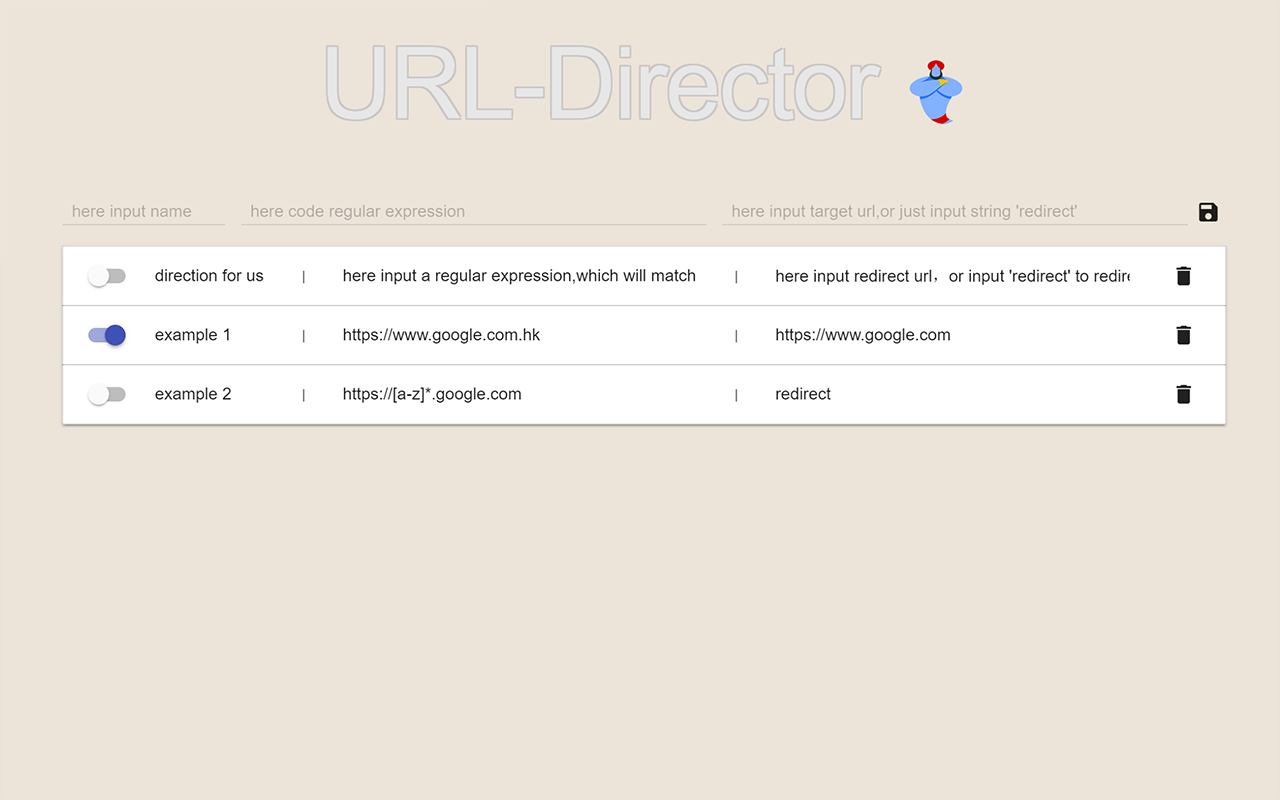
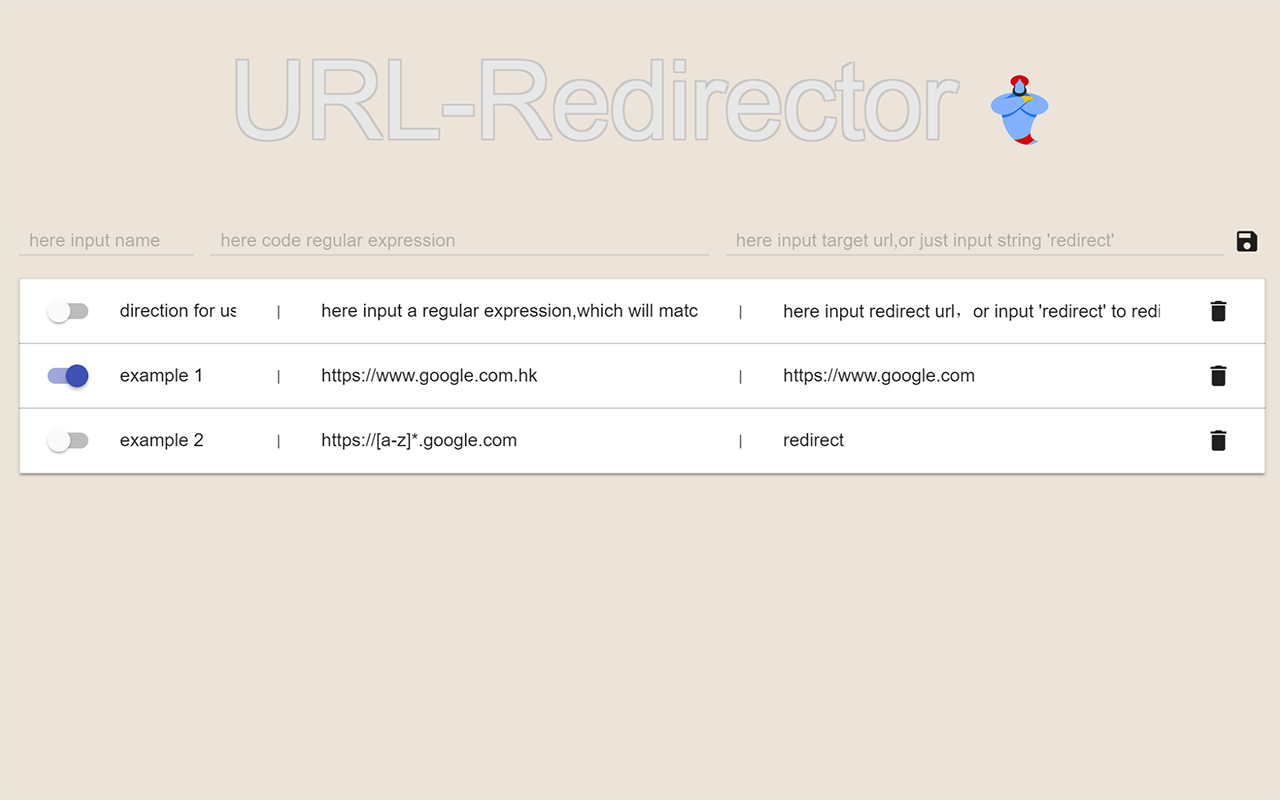
rename url_director to url_redirector

Changed region(s): [[0.0, 0.25, 1.0, 0.5938], [0.2188, 0.0625, 0.8125, 0.1875], [0.1875, 0.1562, 0.2188, 0.1875]]

diff --git a/option.html b/option.html
@@ -13,8 +13,8 @@
 <!--title-->
 <div class="container" style="width: 100%;text-align: center">
 
-    <h1 class="header header--raiseUp header--shadow">URL-Director
-        <a href="https://github.com/hellopenggao/url_director">
+    <h1 class="header header--raiseUp header--shadow">URL-Redirector
+        <a href="https://github.com/hellopenggao/url_redirector">
             <img src="icon.png" style="width: 64px;height: 64px" class="mdl-button mdl-js-button mdl-button--icon">
         </a>
     </h1>

diff --git a/README.md b/README.md
@@ -1,13 +1,13 @@
-![image](https://github.com/hellopenggao/url_shazam/blob/master/example_icon.PNG)url_shazam<br/>
-=====
+![image](./example_icon.PNG)url_redirector<br/>
+===============================================
 ###this chrome extension help you redirect url through regular expression.<br/>
 you can input a regular expression,which will match omnibox and any request in the page.<br/>
-or input 'shazam' to redirect to the url that back from regular expression.<br/>
+or input 'redirect' to redirect to the url that back from regular expression.<br/>
 settings will save and sync with google server if you login in google account.<br/>
 <br/>
 below is a screen shot：<br/>
 ![image](./example_UI.PNG)
 <br/>
-[点击下载](./url_director.crx)<br/>
+[点击下载](./url_redirector.crx)<br/>
 [chrome store](https://chrome.google.com/webstore/detail/urlshazam/dobagipmcophjdpnoihgadgiijfolkee?utm_source=chrome-ntp-icon)
 
